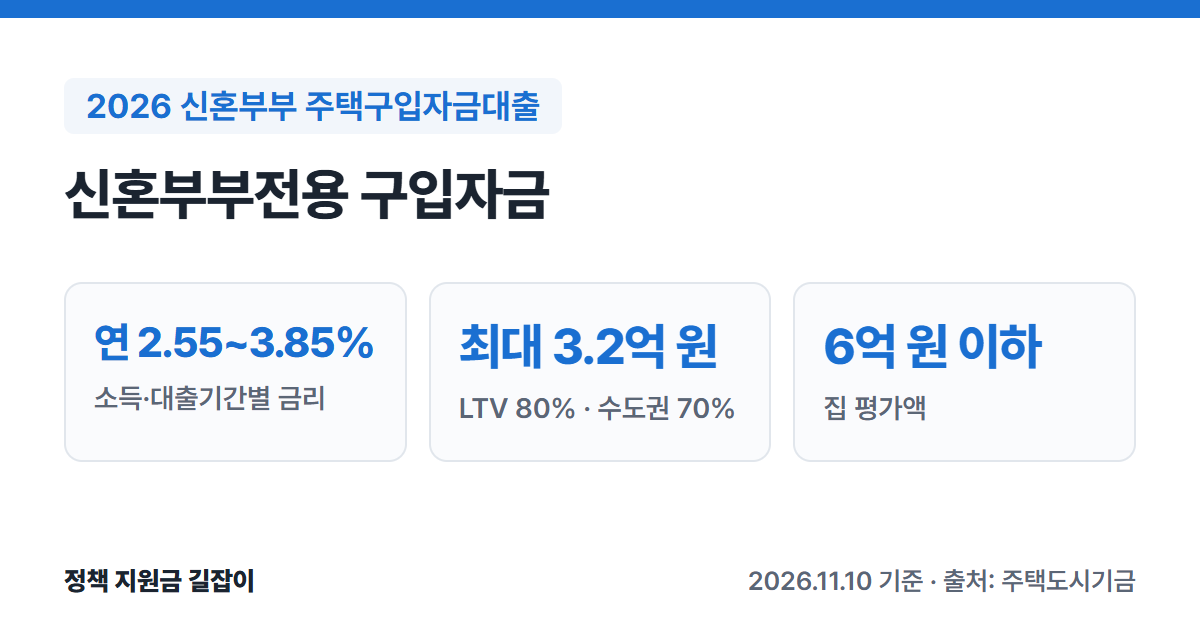
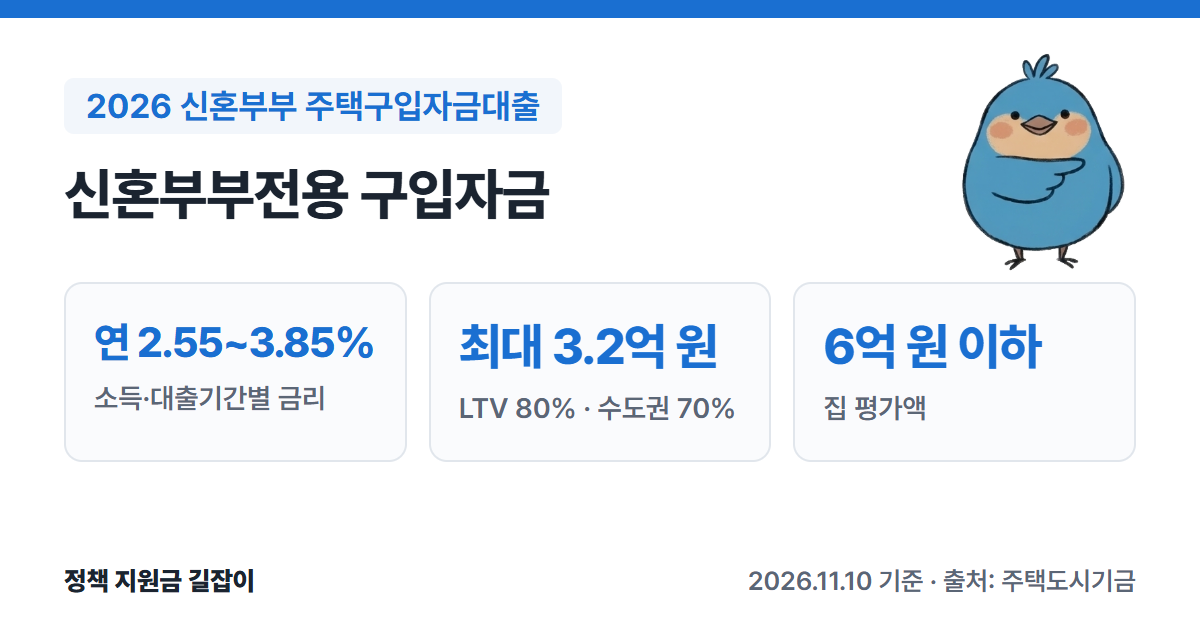
캐릭터(파란 새 길잡이) 포즈 6종·지도 그림 추가, 요약 카드 틀에 캐릭터 자리(char), 신혼부부 구입자금 카드에 안내 포즈 / CLAUDE.md: 중앙정부 정책만 다루기

Changed region(s): [[0.8017, 0.0905, 0.9558, 0.4222]]

diff --git a/_tools/card.html b/_tools/card.html
@@ -35,6 +35,8 @@
            background: rgba(255,255,255,.9); }
   .stamp .s1 { font-size: 50px; font-weight: 900; letter-spacing: -1px; line-height: 1.15; }
   .stamp .s2 { font-size: 26px; font-weight: 700; }
+  .char { position: absolute; top: 22px; right: 46px; height: 236px; width: auto; }
+  .has-char .label, .has-char h1 { max-width: 840px; }
 </style>
 </head>
 <body>
@@ -313,7 +315,8 @@ const cards = {
     label: "2026 신혼부부 주택구입자금대출",
     title: "신혼부부전용 구입자금",
     stats: [["연 2.55~3.85%", "소득·대출기간별 금리"], ["최대 3.2억 원", "LTV 80% · 수도권 70%"], ["6억 원 이하", "집 평가액"]],
-    foot: "2026.11.10 기준 · 출처: 주택도시기금"
+    foot: "2026.11.10 기준 · 출처: 주택도시기금",
+    char: "guide"
   },
   "newborn-jeonse-loan-2026": {
     label: "2026 신생아 특례 전세대출",
@@ -407,6 +410,11 @@ document.getElementById("title").textContent = c.title;
 document.getElementById("foot").textContent = c.foot;
 document.getElementById("stats").innerHTML = c.stats
   .map(([v, k]) => `<div class="stat"><div class="v">${v}</div><div class="k">${k}</div></div>`).join("");
+// 캐릭터(2026-11-10~, 새 글부터): char: "guide" → assets/brand/char/guide.png 를 오른쪽 위에. 도장과 같이 쓰지 않는다
+if (c.char && !c.expired) {
+  const im = document.createElement("img"); im.className = "char"; im.alt = ""; im.src = "../assets/brand/char/" + c.char + ".png";
+  document.querySelector(".card").classList.add("has-char"); document.querySelector(".card").appendChild(im);
+}
 if (c.expired) {
   document.getElementById("stamp").hidden = false;
   document.getElementById("stamp-sub").textContent = c.expired + " 마감";
